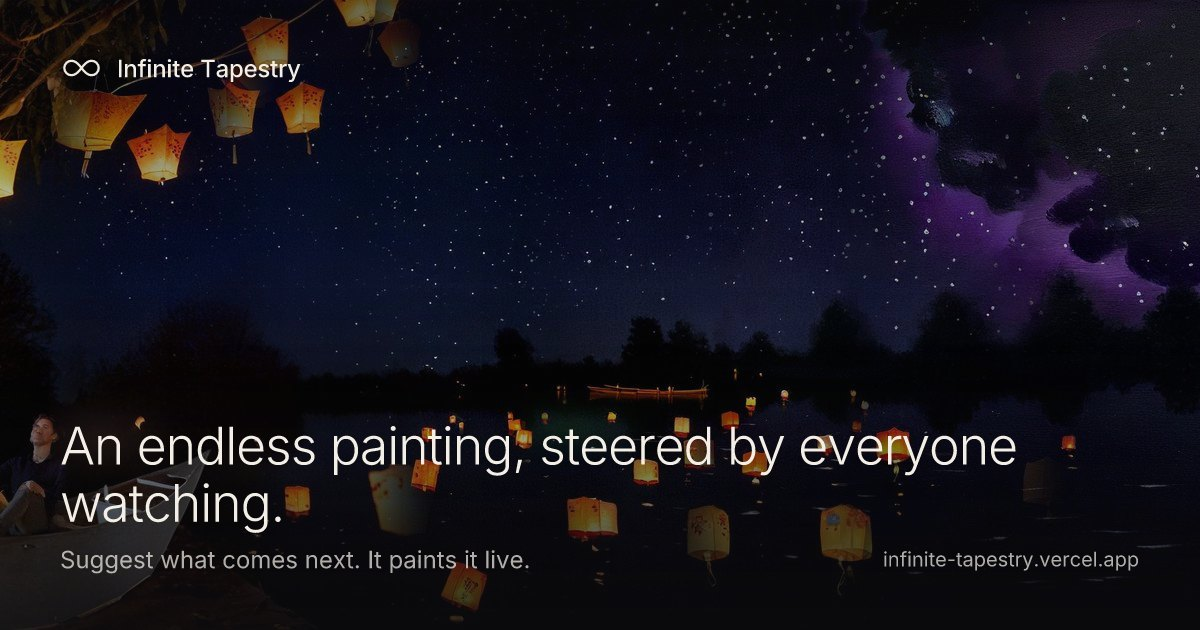
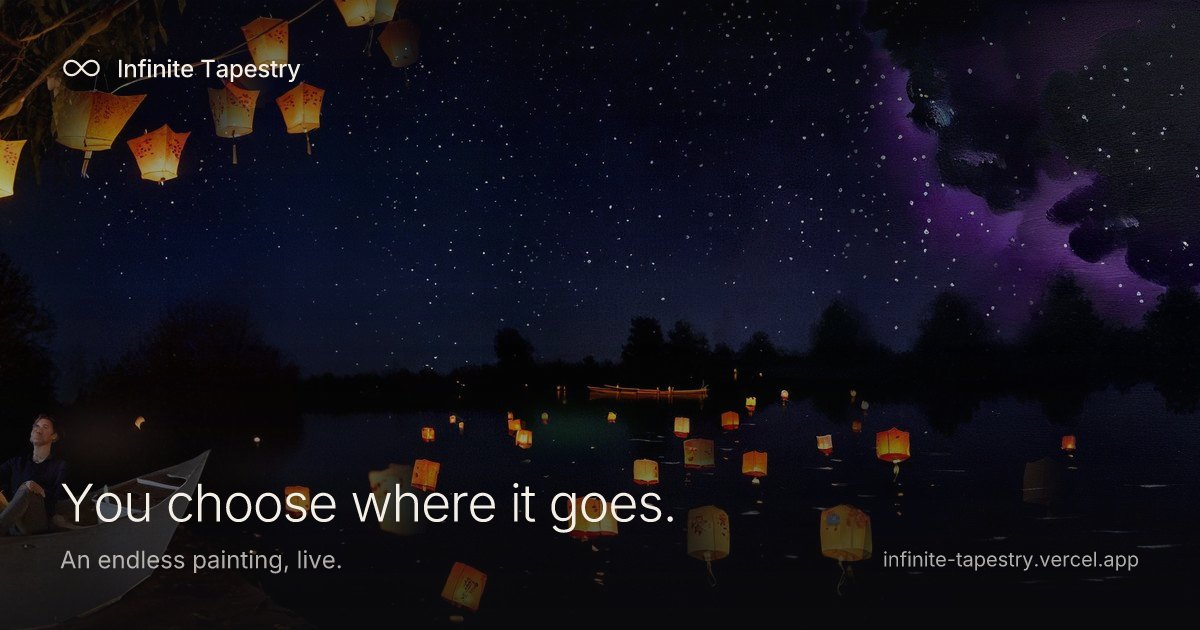
Link previews: no default credit (only the idea that painted that exact spot); brand-only home cards 'You choose where it goes.'

Changed region(s): [[0.0308, 0.6635, 0.8633, 0.8444], [0.0308, 0.8746, 0.4317, 0.9048]]

diff --git a/web/api/og.js b/web/api/og.js
@@ -59,15 +59,15 @@ async function card(req, res) {
     } else if (kind === "at") {
       a = parseInt(req.query.a, 10); b = parseInt(req.query.b, 10);
       if (!(a >= 0)) return fallback();
-      idea = (await rest("GET", `ideas?status=in.(playing,played)&start_strip=lte.${a + 3}&order=start_strip.desc&limit=1&select=handle,body,start_strip,end_strip`).catch(() => []))[0] || null;
-      if (idea && idea.end_strip != null && idea.end_strip < a) idea = null;
+      idea = (await rest("GET", `ideas?status=in.(playing,played)&start_strip=lte.${a + 3}&order=start_strip.desc&limit=1&select=handle,body,start_strip,end_strip,status`).catch(() => []))[0] || null;
+      if (idea && !(idea.end_strip != null ? a <= idea.end_strip : idea.status === "playing" && a <= idea.start_strip + 16)) idea = null;   // credit only the idea that painted this exact spot
       [a, b] = settle(a, Number.isFinite(b) ? b : a + 7); final = true;
     }
     if (idea || kind === "at") {
       const img = await getCrop(a, b, 1200, 630);
       if (!img) return fallback();
       const o = idea ? { v: "by", img: toDataUrl(img), line: clip(idea.body, 90), by: idea.handle }
-                     : { v: "full", img: toDataUrl(img), line: "A moment from the Infinite Tapestry.", sub: "An endless painting, steered by everyone watching." };
+                     : { v: "full", img: toDataUrl(img), line: "A moment from the Infinite Tapestry.", sub: "You choose where it goes." };
       return send(await render(o), final);
     }
     // home: rotate designs every 10 minutes, painted from the last few minutes of the live tapestry
@@ -76,10 +76,10 @@ async function card(req, res) {
     if (!max) return fallback();
     const viewers = (hz && hz.viewers) || 0;
     const V = [
-      { v: "live", line: "It's painting right now.", sub: "Suggest what comes next." },
-      { v: "band", line: "An endless painting, steered by everyone watching." },
-      { v: "close", line: "Suggest what comes next.", sub: "A painting that never ends. Type an idea and watch it paint itself in." },
-      { v: "full", line: "An endless painting, steered by everyone watching.", sub: "Suggest what comes next. It paints it live." },
+      { v: "live", line: "You choose where it goes.", sub: "An endless painting, live." },
+      { v: "band", line: "You choose where it goes." },
+      { v: "close", line: "You choose where it goes.", sub: "An endless painting. Suggest what comes next." },
+      { v: "full", line: "You choose where it goes.", sub: "An endless painting, live." },
     ][bucket % 4];
     const img = V.v === "band" ? await getCrop(max - 48, max - 8, 1600, 314) : await getCrop(max - 15, max - 8, 1200, 630);
     if (!img) return fallback();

diff --git a/web/lib/card.js b/web/lib/card.js
@@ -30,7 +30,7 @@ function tree({ v = "full", img, band, line, sub, by, viewers = 0 }) {
       h("div", { style: { position: "absolute", left: 64, top: 60, display: "flex" } }, brand(28)),
       h("div", { style: { position: "absolute", right: 64, top: 62, display: "flex" } }, livePill(viewers)),
       h("div", { style: { position: "absolute", left: 64, bottom: 64, right: 64, display: "flex", justifyContent: "space-between", alignItems: "flex-end" } },
-        h("div", { style: { fontSize: 36, fontWeight: 300, letterSpacing: -0.8, color: INK, maxWidth: 760, lineHeight: 1.15 } }, line || "An endless painting, steered by everyone watching."),
+        h("div", { style: { fontSize: 36, fontWeight: 300, letterSpacing: -0.8, color: INK, maxWidth: 760, lineHeight: 1.15 } }, line || "You choose where it goes."),
         url()));
   }
   if (v === "close") {
@@ -46,7 +46,7 @@ function tree({ v = "full", img, band, line, sub, by, viewers = 0 }) {
         url()));
   }
   // full-bleed variants: full | live | by
-  const big = v === "by" ? `“${line}”` : (line || "An endless painting, steered by everyone watching.");
+  const big = v === "by" ? `“${line}”` : (line || "You choose where it goes.");
   return root(
     bgImg(img),
     shade("to top", 0.88), shade("to bottom", 0.55),
@@ -55,7 +55,7 @@ function tree({ v = "full", img, band, line, sub, by, viewers = 0 }) {
     h("div", { style: { position: "absolute", left: 60, right: 60, bottom: 56, display: "flex", flexDirection: "column", gap: 14 } },
       h("div", { style: { fontSize: v === "by" ? (big.length > 60 ? 44 : 54) : 52, fontWeight: 300, lineHeight: 1.1, letterSpacing: -1.2, maxWidth: 1000 } }, big),
       h("div", { style: { display: "flex", justifyContent: "space-between", alignItems: "center" } },
-        h("div", { style: { fontSize: 24, color: DIM } }, v === "by" ? `by @${by} · woven into the Infinite Tapestry` : (sub || "Suggest what comes next. It paints it live.")),
+        h("div", { style: { fontSize: 24, color: DIM } }, v === "by" ? `by @${by} · woven into the Infinite Tapestry` : (sub || "An endless painting, live.")),
         url())));
 }
 

diff --git a/web/api/page.js b/web/api/page.js
@@ -41,8 +41,8 @@ module.exports = async (req, res) => {
       const a = parseInt(req.query.at, 10), b = parseInt(req.query.to, 10);
       if (a >= 0) {
         const to = Number.isFinite(b) && b >= a ? Math.min(b, a + 63) : a + 7;
-        const idea = (await rest("GET", `ideas?status=in.(playing,played)&start_strip=lte.${a + 3}&order=start_strip.desc&limit=1&select=handle,body,end_strip`).catch(() => []))[0];
-        const by = idea && (idea.end_strip == null || idea.end_strip >= a) ? idea : null;
+        const idea = (await rest("GET", `ideas?status=in.(playing,played)&start_strip=lte.${a + 3}&order=start_strip.desc&limit=1&select=handle,body,start_strip,end_strip,status`).catch(() => []))[0];
+        const by = idea && (idea.end_strip != null ? a <= idea.end_strip : idea.status === "playing" && a <= idea.start_strip + 16) ? idea : null;
         m = { title: by ? `“${clip(by.body, 70)}”` : "A moment from the Infinite Tapestry",
               desc: by ? `@${by.handle} steered the Infinite Tapestry here.` : "An endless painting, steered by everyone watching.",
               img: `${host}/api/og?card=at&a=${a}&b=${to}`, url: `${host}/?at=${a}&to=${to}` };
